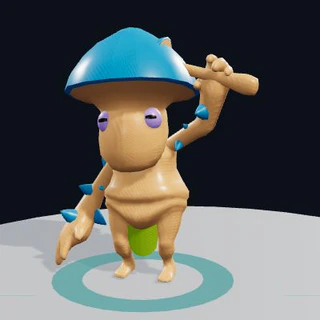
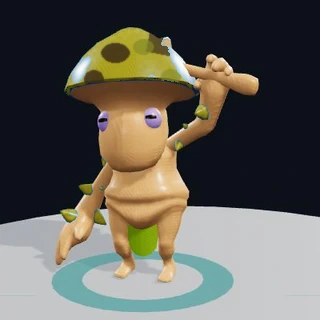
Rename fighters and decay Rotcrown cap

diff --git a/index.html b/index.html
@@ -14,7 +14,7 @@
 <!-- Which build is actually loaded. Stamped by build.js from a hash of the
      source, and shown in the pause panel, so "did my update land?" is a
      question anyone can answer on their phone in two taps. -->
-<meta name="build" content="5e4586e">
+<meta name="build" content="1550c09">
 <meta name="description" content="Bomber Fan — a 3D local-multiplayer bomber game. One human, three bots, six themed maps. Works offline.">
 <!-- Added to a phone's home screen it launches full-screen, with no browser
      chrome eating the landscape height the arena needs. -->
@@ -2351,6 +2351,14 @@
     letter-spacing: .1px;
     text-transform: uppercase;
   }
+  #select .charpick[data-fighter-id="skull-orc"] .charcopy b {
+    display: block;
+    overflow: visible;
+    text-overflow: clip;
+    white-space: nowrap;
+    font-size: clamp(6px, .5vw, 7.5px);
+    letter-spacing: -.12px;
+  }
   #select .charcopy small {
     margin-top: 4px;
     color: rgba(255,244,230,.37);
@@ -3235,19 +3243,19 @@ const PLAYER_DEFS = [
   { id: 'bunny', name: 'Gravehare', color: 0xcf6a92, belly: 0xfff2fb, trim: 0x835977, accent: 0x6d1cae,
     model: 'assets/characters/bunny.gltf', portrait: 'assets/portraits/bunny.webp', expression: 'Wave', altExpression: 'Yes', personality: 'playful',
   },
-  { id: 'alien', name: 'Voidmaw', color: 0x60047b, belly: 0xe9fbff, trim: 0x156309, accent: 0x116a96,
+  { id: 'alien', name: 'Void', color: 0x60047b, belly: 0xe9fbff, trim: 0x156309, accent: 0x116a96,
     model: 'assets/characters/alien.gltf', portrait: 'assets/portraits/alien.webp', expression: 'Yes', altExpression: 'Wave', personality: 'eerie',
   },
-  { id: 'evolved-dragon', name: 'Dreadwing', color: 0xe85e26, belly: 0x82fff4, trim: 0xc6320f, accent: 0x07667c,
+  { id: 'evolved-dragon', name: 'Deadwing', color: 0xe85e26, belly: 0x82fff4, trim: 0xc6320f, accent: 0x07667c,
     model: 'assets/characters/evolved-dragon.gltf', portrait: 'assets/portraits/evolved-dragon.webp', expression: 'Headbutt', altExpression: 'Yes', personality: 'fierce', flying: true,
   },
-  { id: 'skull-orc', name: 'Skullrend', color: 0x76952c, belly: 0xf3dfb9, trim: 0xc0a383, accent: 0x4f7520,
+  { id: 'skull-orc', name: 'Skullcrusher', color: 0x76952c, belly: 0xf3dfb9, trim: 0xc0a383, accent: 0x4f7520,
     model: 'assets/characters/skull-orc.gltf', portrait: 'assets/portraits/skull-orc.webp', expression: 'Punch', altExpression: 'Weapon', personality: 'fierce',
   },
   { id: 'orc', name: 'Goregrin', color: 0x7b9620, belly: 0xdfffb8, trim: 0xa7c057, accent: 0x315f24,
     model: 'assets/characters/orc.gltf', portrait: 'assets/portraits/orc.webp', expression: 'Yes', altExpression: 'Weapon', personality: 'sly',
   },
-  { id: 'fish-monster', name: 'Riftgill', color: 0x48adc8, belly: 0x8df5e5, trim: 0x016c99, accent: 0x15658d,
+  { id: 'fish-monster', name: 'Gill', color: 0x48adc8, belly: 0x8df5e5, trim: 0x016c99, accent: 0x15658d,
     model: 'assets/characters/fish-monster.gltf', portrait: 'assets/portraits/fish-monster.webp', expression: 'Punch', altExpression: 'No', personality: 'fierce',
   },
   { id: 'demon', name: 'Hellshade', color: 0xbc040f, belly: 0x6ecfff, trim: 0xc37c88, accent: 0x4e1738,
@@ -3256,16 +3264,16 @@ const PLAYER_DEFS = [
   { id: 'tribal', name: 'Bloodmask', color: 0xc35426, belly: 0xffffff, trim: 0xdaa858, accent: 0x633800,
     model: 'assets/characters/tribal.gltf', portrait: 'assets/portraits/tribal.webp', expression: 'Yes', altExpression: 'Punch', personality: 'manic',
   },
-  { id: 'cactoro', name: 'Thornrage', color: 0x6b991f, belly: 0xd8ff91, trim: 0xa6691f, accent: 0x3e6f12,
+  { id: 'cactoro', name: 'Thornz', color: 0x6b991f, belly: 0xd8ff91, trim: 0xa6691f, accent: 0x3e6f12,
     model: 'assets/characters/cactoro.gltf', portrait: 'assets/portraits/cactoro.webp', expression: 'Wave', altExpression: 'Yes', personality: 'playful',
   },
-  { id: 'yeti', name: 'Frostmaul', color: 0xd39793, belly: 0xffe3df, trim: 0x3d98a6, accent: 0x8b3152,
+  { id: 'yeti', name: 'Ice Maul', color: 0xd39793, belly: 0xffe3df, trim: 0x3d98a6, accent: 0x8b3152,
     model: 'assets/characters/yeti.gltf', portrait: 'assets/portraits/yeti.webp', expression: 'Yes', altExpression: 'Wave', personality: 'playful',
   },
   { id: 'mushroom-king', name: 'Rotcrown', color: 0x3c9b9c, belly: 0xf4ddb4, trim: 0xc79e6c, accent: 0x276d61,
     model: 'assets/characters/mushroom-king.gltf', portrait: 'assets/portraits/mushroom-king.webp', expression: 'Wave', altExpression: 'Yes', personality: 'eerie',
   },
-  { id: 'ninja', name: 'Nightblade', color: 0xa16261, belly: 0xffc4e0, trim: 0xbf8d6d, accent: 0x71173e,
+  { id: 'ninja', name: 'Razor', color: 0xa16261, belly: 0xffc4e0, trim: 0xbf8d6d, accent: 0x71173e,
     model: 'assets/characters/ninja.gltf', portrait: 'assets/portraits/ninja.webp', expression: 'Weapon', altExpression: 'Punch', personality: 'sly',
   },
   { id: 'evolved-goleling', name: 'Winged Maw', color: 0x96b240, belly: 0xff9237, trim: 0x638012, accent: 0x255c14,
@@ -3274,13 +3282,13 @@ const PLAYER_DEFS = [
   { id: 'monkroose', name: 'Ironclaw', color: 0x94ba57, belly: 0xffed8b, trim: 0xda6d27, accent: 0x795a0a,
     model: 'assets/characters/monkroose.gltf', portrait: 'assets/portraits/monkroose.webp', expression: 'Wave', altExpression: 'Yes', personality: 'playful',
   },
-  { id: 'blue-demon', name: 'Abyss Fiend', color: 0x398cac, belly: 0x55ddff, trim: 0xac6567, accent: 0x1f4f6e,
+  { id: 'blue-demon', name: 'Abyss', color: 0x398cac, belly: 0x55ddff, trim: 0xac6567, accent: 0x1f4f6e,
     model: 'assets/characters/blue-demon.gltf', portrait: 'assets/portraits/blue-demon.webp', expression: 'No', altExpression: 'Yes', personality: 'eerie',
   },
   { id: 'birb', name: 'Razorbeak', color: 0x2167c3, belly: 0xf2fbff, trim: 0x6692c0, accent: 0x155b8d,
     model: 'assets/characters/birb.gltf', portrait: 'assets/portraits/birb.webp', expression: 'Yes', altExpression: 'Wave', personality: 'sly',
   },
-  { id: 'dino', name: 'Doomfang', color: 0xc10449, belly: 0xe2c8ff, trim: 0xbf7755, accent: 0x5f1131,
+  { id: 'dino', name: 'Fiend', color: 0xc10449, belly: 0xe2c8ff, trim: 0xbf7755, accent: 0x5f1131,
     model: 'assets/characters/dino.gltf', portrait: 'assets/portraits/dino.webp', expression: 'No', altExpression: 'Punch', personality: 'fierce',
   },
   { id: 'flying-tribal', name: 'Death Totem', color: 0xd34632, belly: 0xffc3ba, trim: 0x9b0708, accent: 0x872114,
@@ -8742,6 +8750,41 @@ const CharacterModels = (() => {
     return copy;
   }
 
+  function addFighterDetails(RT, model, def) {
+    if (def.id !== 'mushroom-king') return;
+    const head = model.getObjectByName('Head');
+    if (!head) return;
+
+    // Rotcrown's cap is part of the skinned body, so destructive mesh edits
+    // would jeopardise every supplied animation. These low-profile growths sit
+    // on the cap in head-local space and inherit every nod, wave and eerie tilt.
+    const decay = new RT.THREE.Group();
+    decay.name = 'RotcrownDecay';
+    const darkRot = new RT.THREE.MeshStandardMaterial({
+      color: 0x302219, roughness: 0.94, metalness: 0,
+    });
+    const sickMoss = new RT.THREE.MeshStandardMaterial({
+      color: 0x7c8923, roughness: 0.9, metalness: 0,
+    });
+    const spotGeometry = new RT.THREE.SphereGeometry(1, 12, 8);
+    [
+      [-0.54, 1.06, 0.67, 0.20, 0.12, 0.055, darkRot],
+      [ 0.13, 1.31, 0.48, 0.15, 0.10, 0.045, sickMoss],
+      [ 0.55, 0.90, 0.65, 0.18, 0.11, 0.050, darkRot],
+      [-0.16, 0.70, 0.81, 0.12, 0.08, 0.040, sickMoss],
+      [ 0.78, 0.58, 0.43, 0.11, 0.075, 0.040, darkRot],
+    ].forEach(([x, y, z, sx, sy, sz, material], index) => {
+      const spot = new RT.THREE.Mesh(spotGeometry, material);
+      spot.name = `RotPatch${index + 1}`;
+      spot.position.set(x, y, z);
+      spot.scale.set(sx, sy, sz);
+      spot.rotation.z = index % 2 ? -0.28 : 0.22;
+      spot.castShadow = true;
+      decay.add(spot);
+    });
+    head.add(decay);
+  }
+
   function create(def) {
     const group = new THREE.Group();
     group.userData.combatClass = def.id || def.name.toLowerCase().replace(/[^a-z0-9]+/g, '-');
@@ -8787,6 +8830,7 @@ const CharacterModels = (() => {
       box = new THREE.Box3().setFromObject(model);
       const centre = box.getCenter(new THREE.Vector3());
       model.position.set(-centre.x, -box.min.y + (def.flying ? 0.11 : 0), -centre.z);
+      addFighterDetails(RT, model, def);
       model.updateMatrixWorld(true);
       group.add(model);
       group.userData.modelRoot = model;

diff --git a/refresh.html b/refresh.html
@@ -36,7 +36,7 @@
       );
     }
   } catch (_) {}
-  window.location.replace(new URL('./?build=5e4586e&preview=bunny', scope).href);
+  window.location.replace(new URL('./?build=1550c09&preview=mushroom-king', scope).href);
 })();
 </script>
 </body>
